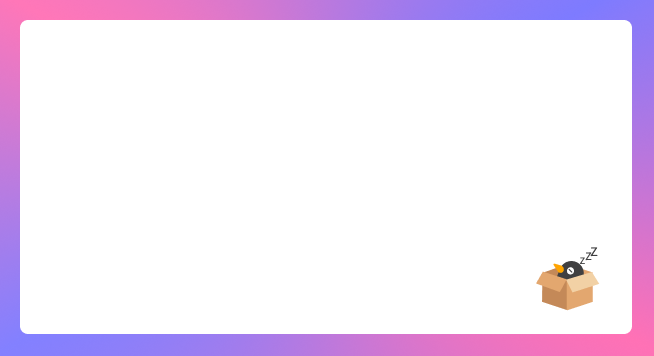
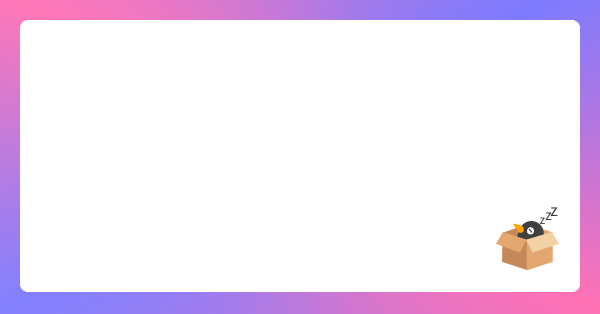
🔧 fix: ogpのサイズをtwitterに合わせる

Changed region(s): [[0.03, 0.0287, 0.96, 0.9459], [0.81, 0.6592, 0.93, 0.8885]]

diff --git a/src/pages/api/companySystem/ogp/index.api.ts b/src/pages/api/companySystem/ogp/index.api.ts
@@ -15,27 +15,27 @@ import { isString } from "~/utils/type"
 const BASE_IMAGE_PATH = path.resolve("./public", "baseOGP.png")
 const FALL_BACK_IMAGE = path.resolve("./public", "ogp.png")
 
-const PADDING_X = 60
-const PADDING_TOP = 80
+const PADDING_X = 45
+const PADDING_TOP = 75
 const MAX_NAME_LINE_COUNT = 2
-const CANVAS_WIDTH = 654
-const CANVAS_HEIGHT = 356
+const CANVAS_WIDTH = 600
+const CANVAS_HEIGHT = 314
 const FONT_BLACK = path.resolve("./public", "fonts/NotoSansJP-Black.otf")
 const FONT_MEDIUM = path.resolve("./public", "fonts/NotoSansJP-Medium.otf")
 const FONT_REGULAR = path.resolve("./public", "fonts/NotoSansJP-Regular.otf")
 
 const NAME_STYLE = {
-  font: 'bold 40px "FONT_BLACK"',
+  font: 'bold 38px "FONT_BLACK"',
   lineHeight: 50,
 } as const
 
 const DESCRIPTION_STYLE = {
-  font: 'regular 24px "FONT_MEDIUM"',
-  lineHeight: 42,
+  font: 'regular 22px "FONT_MEDIUM"',
+  lineHeight: 36,
 } as const
 
 const AUTHOR_STYLE = {
-  font: 'regular 20px "FONT_REGULAR"',
+  font: 'regular 18px "FONT_REGULAR"',
   lineHeight: 30,
 }
 
